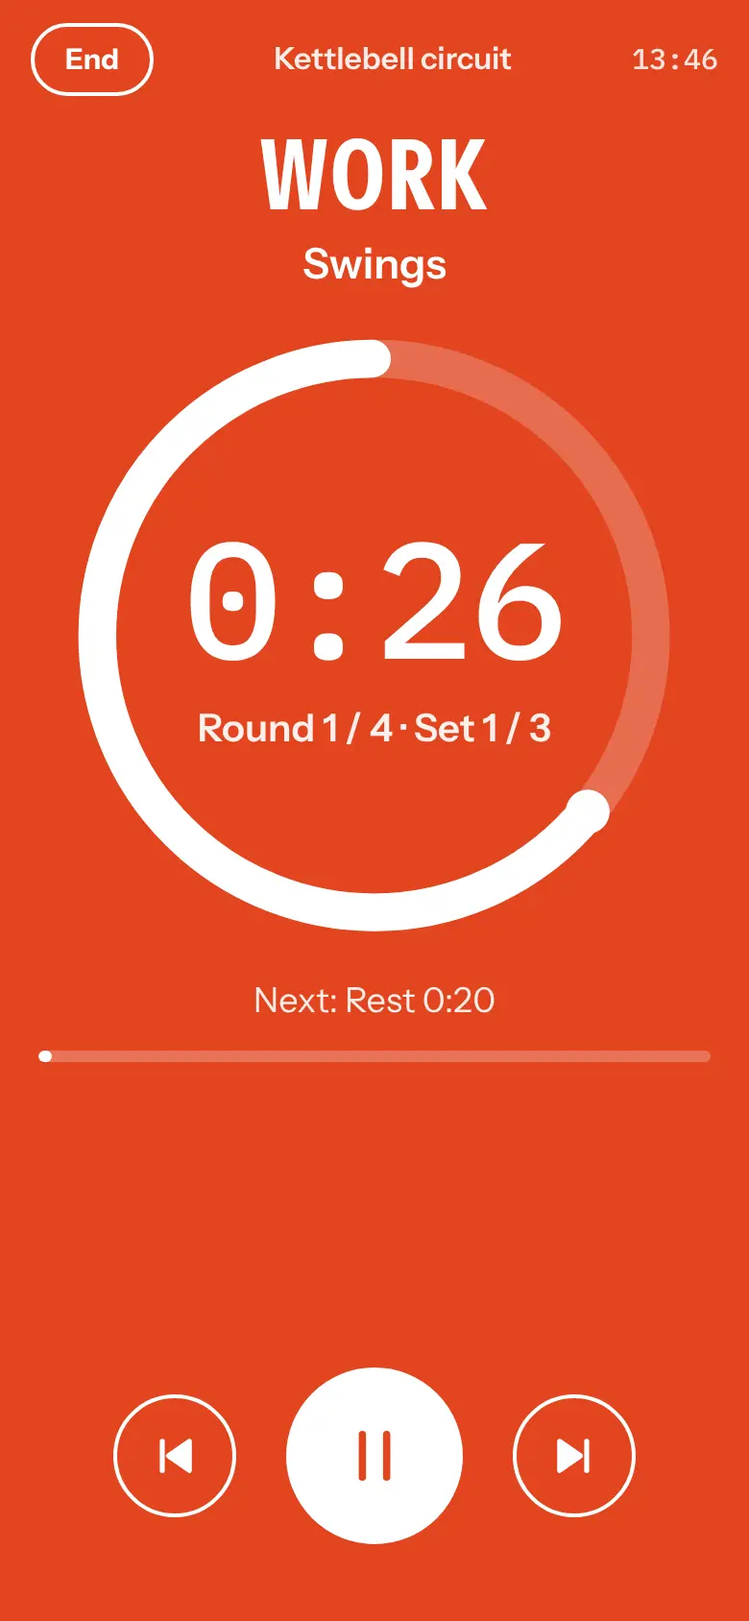
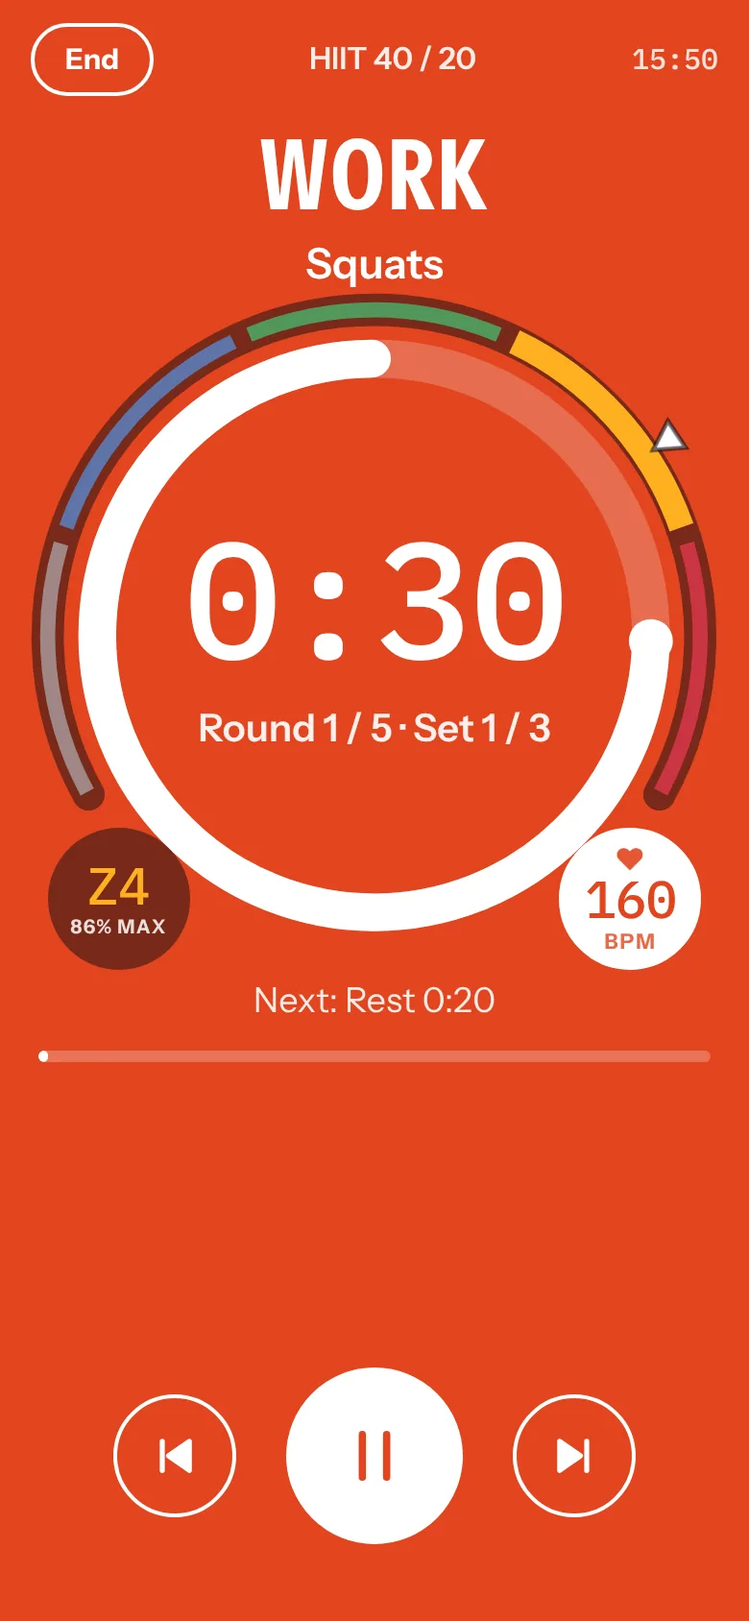
Rounds zones, new donation line, Still Point screenshot, manuals synced
- Homepage: the new donation line; the Rounds card announces heart-rate zones.
- Rounds page: zone screenshots (work with the zone ring, Done with time in
  each zone), "Heart rate and zones" feature text; manual synced to 1.4.0.
- Still Point: new home screenshot ("Connect strap").
- Unmarked: manual synced to 0.1.4.
- tools/md.mjs: simple tables, styled in the manual pages.

Claude-Session: https://claude.ai/code/session_012xu5y2k6Q8KBdMQGucsDEw

diff --git a/rounds/manual/index.html b/rounds/manual/index.html
@@ -4,12 +4,12 @@
 <meta charset="utf-8">
 <meta name="viewport" content="width=device-width,initial-scale=1,viewport-fit=cover">
 <title>Rounds user manual</title>
-<meta name="description" content="How to use Rounds: presets, building your own timers, the beeps, spoken cues, heart rate and backing up your timers.">
+<meta name="description" content="How to use Rounds: presets, building your own timers, the beeps, spoken cues, heart rate and zones, and backing up your timers.">
 <link rel="canonical" href="https://anonacondacodelab.com/rounds/manual/">
 <meta property="og:type" content="website">
 <meta property="og:site_name" content="Anonaconda Code Lab">
 <meta property="og:title" content="Rounds user manual">
-<meta property="og:description" content="How to use Rounds: presets, building your own timers, the beeps, spoken cues, heart rate and backing up your timers.">
+<meta property="og:description" content="How to use Rounds: presets, building your own timers, the beeps, spoken cues, heart rate and zones, and backing up your timers.">
 <meta property="og:url" content="https://anonacondacodelab.com/rounds/manual/">
 <meta property="og:image" content="https://anonacondacodelab.com/social/og-rounds.jpg">
 <meta property="og:image:width" content="1200">
@@ -72,6 +72,9 @@ details p{margin:8px 0 0;max-width:40em}
 .manual code{font-size:14px;background:var(--card);border:1px solid var(--rule);border-radius:5px;padding:0 4px;overflow-wrap:anywhere}
 .manual .callout{border:2px solid var(--head);border-radius:14px;padding:4px 18px;margin:18px 0;background:var(--card)}
 .manual hr{border:0;border-top:1px solid var(--rule);margin:28px 0}
+.manual table{border-collapse:collapse;margin:14px 0;font-size:16px;display:block;overflow-x:auto;max-width:100%}
+.manual th,.manual td{border-bottom:1px solid var(--rule);padding:6px 16px 6px 0;text-align:left;white-space:nowrap}
+.manual th{font-weight:600}
 footer{border-top:1px solid var(--rule);margin-top:48px;padding:26px 0 48px;font-size:15px;color:var(--muted)}
 footer nav{display:flex;flex-wrap:wrap;gap:8px 22px;margin-bottom:14px}
 footer nav a{color:var(--ink);font-weight:500;text-underline-offset:3px}
@@ -104,7 +107,7 @@ footer p{margin:6px 0;max-width:40em}
 <ul><li><b>Name</b>: shown at the top while the timer runs.</li><li><b>Work</b> and <b>Rest</b>: the length of each work and rest period. Tap the value to type a time, or use − and +.</li><li><b>Rounds</b>: how many times work and rest repeat. There is no rest after the last round.</li><li><b>Sets</b> and <b>Break between sets</b>: repeat the whole block of rounds, with a longer break in between. The break replaces the last rest of each set.</li><li><b>Warm-up</b> and <b>Cool-down</b>: an easy period before the first round and after the last.</li><li><b>Exercise names</b> (optional): one per line. Each work round shows the next name in order, and spoken cues read it out, which is handy for circuits.</li><li><b>Custom steps</b>: for patterns that aren't a simple work and rest, such as 10-20-30 or a pyramid, tap <i>Use custom steps</i>. Each round is then a list of steps, each with its own length and label. Work steps get the 3-2-1 beeps; rest steps are easy or recovery.</li></ul>
 <p>Tap <b>Save</b> to keep the timer under <i>Your timers</i>, or <b>Start</b> to run it straight away. <b>Delete</b> removes a timer you made.</p>
 <h2>While a timer runs</h2>
-<ul><li>The whole screen changes colour with the phase, so you can see from across the room whether it's work or rest.</li><li>The <b>ring</b> empties as the current period runs down, with the time left in the middle. Above it is the phase and the round (for example <i>Round 3 / 8 · Set 1 / 2</i>); below it, what comes next.</li><li><b>Skip warm-up</b> appears during a warm-up and jumps straight to the first round.</li><li><b>Pause</b> stops the timer and the beeps; tap again to carry on.</li><li><b>Back</b> (⏮) goes back to the start of the current period (or the previous one, if you're in the first two seconds); <b>Skip</b> (⏭) skips to the next period.</li><li><b>End</b> asks you to tap again within three seconds, so a stray tap can't stop your workout.</li><li>The screen stays on while a timer runs.</li></ul>
+<ul><li>The whole screen changes colour with the phase, so you can see from across the room whether it's work or rest.</li><li>The <b>ring</b> empties as the current period runs down, with the time left in the middle. Above it is the phase and the round (for example <i>Round 3 / 8 · Set 1 / 2</i>); below it, what comes next.</li><li><b>Skip warm-up</b> appears during a warm-up and jumps straight to the first round.</li><li><b>Pause</b> stops the timer and the beeps; tap again to carry on.</li><li><b>Back</b> (⏮) goes back to the start of the current period (or the previous one, if you're in the first two seconds); <b>Skip</b> (⏭) skips to the next period.</li><li><b>End</b> asks you to tap again within three seconds, so a stray tap can't stop your workout. Ending a timer early still shows the finish screen, with the work rounds you finished, the time so far and your heart rate and zones up to then.</li><li>The screen stays on while a timer runs.</li></ul>
 <p>When the timer finishes, you see how many work rounds you did and the total time. <b>Again</b> runs the same timer once more; <b>Home</b> goes back to the list.</p>
 <h2>Spoken cues and vibration</h2>
 <p>In <b>Settings</b>:</p>
@@ -113,12 +116,18 @@ footer p{margin:6px 0;max-width:40em}
 <p>Tap <b>♥</b> at the top of the home screen, or beside the dial during a timer, and choose your strap or watch in the list. Any device that shares standard Bluetooth heart rate works: Polar, Garmin HRM-Dual or HRM-Pro, Wahoo TICKR, Coospo and most others, including many watches in &quot;broadcast heart rate&quot; mode.</p>
 <p>Your heart rate is shown during the timer, and the finish screen shows your average and peak heart rate in the work rounds. Readings are only shown, never saved or sent. Tap ♥ twice to disconnect.</p>
 <p>In a browser this needs Chrome or Chromium on Android or a computer, or the free Bluefy browser on iPhone and iPad. If the browser can't use Bluetooth, the ♥ button simply doesn't appear.</p>
+<h3>Heart-rate zones</h3>
+<p>Turn on <b>Settings → Heart-rate zones</b> and enter your <b>max heart rate</b>. If you don't know it, enter your <b>age</b> instead and Rounds estimates it with the Tanaka formula (208 − 0.7 × age). Estimates can be 10 bpm or more out either way, so a max you have measured (for example, the highest reading at the end of a very hard effort) is better. Add your <b>resting heart rate</b> if you like: the zones are then based on your heart-rate reserve (max minus resting), which suits people whose resting heart rate is unusually low or high.</p>
+<table><thead><tr><th>Zone</th><th>Share of max (or of reserve)</th><th>Feels</th></tr></thead><tbody><tr><td>Z1</td><td>50–60%</td><td>Very light</td></tr><tr><td>Z2</td><td>60–70%</td><td>Light</td></tr><tr><td>Z3</td><td>70–80%</td><td>Moderate</td></tr><tr><td>Z4</td><td>80–90%</td><td>Hard</td></tr><tr><td>Z5</td><td>90–100%</td><td>Maximum</td></tr></tbody></table>
+<p>Until you do, a small card on the start screen offers <b>Set up zones</b> (or <b>Not now</b>, which hides it for good; the setting stays in Settings). Settings shows the heart-rate range of each zone for your numbers. You only set this up once: it is stored on this device with your timers, and <i>Save timers to file</i> includes it.</p>
+<p>While a strap is connected, a ring of the five zones appears around the timer, with a marker at your current heart rate and your zone (for example <b>Z4 · 86% MAX</b>, or <b>% HRR</b> with a resting heart rate) at the bottom left of the dial. If readings stop, the ring dims and the zone shows <b>–</b> until they come back. Without a strap, or with zones not set up, the timer looks as it always has. The finish screen shows how long you spent in each zone, also when you end a timer early.</p>
+<p>Zones are a guide for training, not medical advice.</p>
 <h2>Backing up your timers</h2>
 <p>In <b>Settings → Your timers</b>:</p>
 <ul><li><b>Save timers to file</b> saves your own timers, favourites and settings in one file. Keep it as a backup, or use it to move your timers to another phone or browser.</li><li><b>Import timers</b> adds the timers from such a file. Timers you already have are kept; a timer that is already there is replaced by the copy in the file, and favourites are combined.</li></ul>
 <p>Your timers are stored in the browser on this device. Clearing the browser's site data deletes them, so save a backup now and then if you have many.</p>
 <h2>Privacy</h2>
-<p>Rounds has no server, no account and no tracking. Your timers stay on your device, and heart rate is shown only, never saved or sent. Opening the web app is an ordinary visit to its website, like any page; after that, the only thing it ever asks that website for is a newer copy of itself, so updates arrive. The Android app has no internet permission at all.</p>
+<p>Rounds has no server, no account and no tracking. Your timers and heart-rate zone settings stay on your device, and heart rate is shown only, never saved or sent. Opening the web app is an ordinary visit to its website, like any page; after that, the only thing it ever asks that website for is a newer copy of itself, so updates arrive. The Android app has no internet permission at all.</p>
 <p><b>Translating the page.</b> If you use your browser's <i>Translate</i> button, the browser sends the page's text to its translation service (Google's, in Chrome). Rounds marks your timer names and heart rate so the translator leaves them out: only the app's own buttons and labels are translated.</p>
 <h2>The Android app</h2>
 <p>Rounds is also an Android app: the same app, with the timer, beeps and spoken cues keeping going while the screen is off, and <b>no internet permission</b> at all. It is not on Google Play; download it from <b>rounds.anonacondacodelab.com/android.html</b>, which also explains how to install it and how to check that it's the official build. When you start your first timer, it asks to show a notification: that notification is what keeps it running with the screen off.</p>

diff --git a/rounds/index.html b/rounds/index.html
@@ -4,12 +4,12 @@
 <meta charset="utf-8">
 <meta name="viewport" content="width=device-width,initial-scale=1,viewport-fit=cover">
 <title>Rounds: a free, loud interval timer for HIIT, Tabata and boxing</title>
-<meta name="description" content="A loud, clear interval timer with 16 presets (Tabata, EMOM, 4 × 4, boxing rounds and more) or your own timers. Free, no account, no ads, works offline.">
+<meta name="description" content="A loud, clear interval timer with 16 presets (Tabata, EMOM, 4 × 4, boxing rounds and more) or your own timers, and optional heart-rate zones. Free, no account, no ads, works offline.">
 <link rel="canonical" href="https://anonacondacodelab.com/rounds/">
 <meta property="og:type" content="website">
 <meta property="og:site_name" content="Anonaconda Code Lab">
 <meta property="og:title" content="Rounds: a free, loud interval timer for HIIT, Tabata and boxing">
-<meta property="og:description" content="A loud, clear interval timer with 16 presets (Tabata, EMOM, 4 × 4, boxing rounds and more) or your own timers. Free, no account, no ads, works offline.">
+<meta property="og:description" content="A loud, clear interval timer with 16 presets (Tabata, EMOM, 4 × 4, boxing rounds and more) or your own timers, and optional heart-rate zones. Free, no account, no ads, works offline.">
 <meta property="og:url" content="https://anonacondacodelab.com/rounds/">
 <meta property="og:image" content="https://anonacondacodelab.com/social/og-rounds.jpg">
 <meta property="og:image:width" content="1200">
@@ -20,7 +20,7 @@
 <link rel="icon" href="/favicon.ico" sizes="48x48">
 <link rel="icon" href="/favicon-192.png" type="image/png" sizes="192x192">
 <link rel="apple-touch-icon" href="/apple-touch-icon.png">
-<script type="application/ld+json">{"@context":"https://schema.org","@type":"WebApplication","name":"Rounds","url":"https://rounds.anonacondacodelab.com","description":"A loud, clear interval timer with 16 presets (Tabata, EMOM, 4 × 4, boxing rounds and more) or your own timers. Free, no account, no ads, works offline.","applicationCategory":"SportsApplication","operatingSystem":"Android app; any modern browser on Android, iPhone, iPad, Windows, macOS, ChromeOS, Linux","browserRequirements":"Any modern browser. Optional heart rate needs Web Bluetooth (Chrome or Chromium, or Bluefy on iPhone)","offers":{"@type":"Offer","price":"0","priceCurrency":"USD"},"isAccessibleForFree":true,"license":"https://www.gnu.org/licenses/gpl-3.0.html","image":"https://anonacondacodelab.com/social/og-rounds.jpg","author":{"@type":"Organization","name":"Anonaconda Code Lab","url":"https://anonacondacodelab.com/"}}</script>
+<script type="application/ld+json">{"@context":"https://schema.org","@type":"WebApplication","name":"Rounds","url":"https://rounds.anonacondacodelab.com","description":"A loud, clear interval timer with 16 presets (Tabata, EMOM, 4 × 4, boxing rounds and more) or your own timers, and optional heart-rate zones. Free, no account, no ads, works offline.","applicationCategory":"SportsApplication","operatingSystem":"Android app; any modern browser on Android, iPhone, iPad, Windows, macOS, ChromeOS, Linux","browserRequirements":"Any modern browser. Optional heart rate needs Web Bluetooth (Chrome or Chromium, or Bluefy on iPhone)","offers":{"@type":"Offer","price":"0","priceCurrency":"USD"},"isAccessibleForFree":true,"license":"https://www.gnu.org/licenses/gpl-3.0.html","image":"https://anonacondacodelab.com/social/og-rounds.jpg","author":{"@type":"Organization","name":"Anonaconda Code Lab","url":"https://anonacondacodelab.com/"}}</script>
 <style>
 @font-face{font-family:"Instrument Sans";font-style:normal;font-display:swap;font-weight:400 700;font-stretch:75% 100%;
   src:url(/fonts/InstrumentSans-latin-variable.woff2) format("woff2-variations")}
@@ -73,6 +73,9 @@ details p{margin:8px 0 0;max-width:40em}
 .manual code{font-size:14px;background:var(--card);border:1px solid var(--rule);border-radius:5px;padding:0 4px;overflow-wrap:anywhere}
 .manual .callout{border:2px solid var(--head);border-radius:14px;padding:4px 18px;margin:18px 0;background:var(--card)}
 .manual hr{border:0;border-top:1px solid var(--rule);margin:28px 0}
+.manual table{border-collapse:collapse;margin:14px 0;font-size:16px;display:block;overflow-x:auto;max-width:100%}
+.manual th,.manual td{border-bottom:1px solid var(--rule);padding:6px 16px 6px 0;text-align:left;white-space:nowrap}
+.manual th{font-weight:600}
 footer{border-top:1px solid var(--rule);margin-top:48px;padding:26px 0 48px;font-size:15px;color:var(--muted)}
 footer nav{display:flex;flex-wrap:wrap;gap:8px 22px;margin-bottom:14px}
 footer nav a{color:var(--ink);font-weight:500;text-underline-offset:3px}
@@ -95,10 +98,10 @@ footer p{margin:6px 0;max-width:40em}
     <div class="shots" role="list" aria-label="Screenshots">
       <figure role="listitem"><img src="/screens/rounds/1-home.webp" alt="Favourites, your own timers and 16 presets, sorted by goal or hardest first" width="780" height="1688" loading="lazy"><figcaption>Favourites, your own timers and 16 presets, sorted by goal or hardest first</figcaption></figure>
       <figure role="listitem"><img src="/screens/rounds/2-about.webp" alt="Every preset explains what it is, how to do it, why it works and where it comes from" width="780" height="1688" loading="lazy"><figcaption>Every preset explains what it is, how to do it, why it works and where it comes from</figcaption></figure>
-      <figure role="listitem"><img src="/screens/rounds/3-work.webp" alt="Work: the whole screen turns orange, with the exercise name, round and set" width="780" height="1688" loading="lazy"><figcaption>Work: the whole screen turns orange, with the exercise name, round and set</figcaption></figure>
+      <figure role="listitem"><img src="/screens/rounds/3-work.webp" alt="Work: the whole screen turns orange; with a strap, the ring around it shows your heart-rate zone" width="780" height="1688" loading="lazy"><figcaption>Work: the whole screen turns orange; with a strap, the ring around it shows your heart-rate zone</figcaption></figure>
       <figure role="listitem"><img src="/screens/rounds/4-rest.webp" alt="Rest: green, with what comes next" width="780" height="1688" loading="lazy"><figcaption>Rest: green, with what comes next</figcaption></figure>
       <figure role="listitem"><img src="/screens/rounds/5-editor.webp" alt="Build your own: work, rest, rounds, sets, warm-up, cool-down and exercise names" width="780" height="1688" loading="lazy"><figcaption>Build your own: work, rest, rounds, sets, warm-up, cool-down and exercise names</figcaption></figure>
-      <figure role="listitem"><img src="/screens/rounds/6-finish.webp" alt="Done: work rounds and total time, with your heart rate if a strap was connected" width="780" height="1688" loading="lazy"><figcaption>Done: work rounds and total time, with your heart rate if a strap was connected</figcaption></figure>
+      <figure role="listitem"><img src="/screens/rounds/6-finish.webp" alt="Done: work rounds and time, your heart rate and the time you spent in each zone" width="780" height="1688" loading="lazy"><figcaption>Done: work rounds and time, your heart rate and the time you spent in each zone</figcaption></figure>
     </div>
     <h2>What it does</h2>
     <div class="features">
@@ -109,7 +112,7 @@ footer p{margin:6px 0;max-width:40em}
       <div><h3>Build your own</h3><p>Work, rest, rounds, sets with a longer break between them, warm-up and cool-down. Custom steps handle patterns like 10-20-30 or a pyramid, and exercise names are shown in each work round.</p></div>
       <div><h3>Readable from across the room</h3><p>Big numbers, a ring that empties as the time runs down, and a full-screen colour for each phase: work, rest, set break, warm-up and cool-down.</p></div>
       <div><h3>Spoken cues and vibration</h3><p>Optional voice cues (“Work”, “Rest”, “Round 3 of 8” and exercise names), a buzz at each change, and a halfway beep in long work rounds.</p></div>
-      <div><h3>Heart rate (optional)</h3><p>Connect any standard Bluetooth heart-rate strap or watch: Polar, Garmin, Wahoo, Coospo and most others. See your heart rate live, then your average and peak in the work rounds. Shown only, never saved or sent.</p></div>
+      <div><h3>Heart rate and zones (optional)</h3><p>Connect any standard Bluetooth heart-rate strap or watch: Polar, Garmin, Wahoo, Coospo and most others. See your heart rate live and, with your max heart rate set (or estimated from your age), your training zone in a ring around the timer. Afterwards: your average, peak and time in each zone. Shown only, never saved or sent.</p></div>
       <div><h3>Favourites and backup</h3><p>Star the timers you use most to keep them at the top. Save all your timers to a file and import them on another phone or browser.</p></div>
       <div><h3>Private and offline</h3><p>No account, no server, no analytics. Your timers stay on your device, and it works without a connection once added to your home screen.</p></div>
     </div>

diff --git a/unmarked/manual/index.html b/unmarked/manual/index.html
@@ -72,6 +72,9 @@ details p{margin:8px 0 0;max-width:40em}
 .manual code{font-size:14px;background:var(--card);border:1px solid var(--rule);border-radius:5px;padding:0 4px;overflow-wrap:anywhere}
 .manual .callout{border:2px solid var(--head);border-radius:14px;padding:4px 18px;margin:18px 0;background:var(--card)}
 .manual hr{border:0;border-top:1px solid var(--rule);margin:28px 0}
+.manual table{border-collapse:collapse;margin:14px 0;font-size:16px;display:block;overflow-x:auto;max-width:100%}
+.manual th,.manual td{border-bottom:1px solid var(--rule);padding:6px 16px 6px 0;text-align:left;white-space:nowrap}
+.manual th{font-weight:600}
 footer{border-top:1px solid var(--rule);margin-top:48px;padding:26px 0 48px;font-size:15px;color:var(--muted)}
 footer nav{display:flex;flex-wrap:wrap;gap:8px 22px;margin-bottom:14px}
 footer nav a{color:var(--ink);font-weight:500;text-underline-offset:3px}
@@ -101,19 +104,19 @@ footer p{margin:6px 0;max-width:40em}
 <p>Your choices are remembered on this device.</p>
 <h2>Photos (JPEG, PNG, WebP)</h2>
 <p>Removed:</p>
-<ul><li><b>Location</b> (GPS position, altitude, the direction the camera faced) and place names</li><li><b>Names</b>: author, camera owner, creator, contact details</li><li><b>Device details</b>: phone or camera maker and model, serial numbers, lens, software and editing apps</li><li><b>Dates and time zone</b></li><li><b>Embedded thumbnails</b>: a small copy of the original picture, which can still show parts you cropped out</li><li><b>Motion photos</b>: the short video clip some phones attach to a photo</li><li><b>Edit history</b>, document IDs and other data added by editing apps</li><li><b>Comments, titles, descriptions and keywords</b></li><li>Camera settings (exposure, ISO and similar) and other technical data</li></ul>
+<ul><li><b>Location</b> (GPS position, altitude, the direction the camera faced) and place names</li><li><b>Names</b>: author, camera owner, creator, contact details</li><li><b>Device details</b>: phone or camera maker and model, serial numbers, lens, software and editing apps</li><li><b>Dates and time zone</b></li><li><b>Embedded thumbnails</b>: a small copy of the original picture, which can still show parts you cropped out</li><li><b>Motion photos</b>: the short video clip some phones attach to a photo</li><li><b>Edit history</b>, document IDs and other data added by editing apps</li><li><b>Comments, titles, descriptions and keywords</b></li><li>Camera settings (exposure, ISO and similar) and other technical data</li><li><b>Standard sRGB colour profiles</b>: apps and browsers assume sRGB when a picture has no profile, so the colours stay exactly the same</li></ul>
 <p>Kept, because they are harmless and needed to show the picture correctly:</p>
-<ul><li><b>Rotation</b>: so the photo appears the right way up</li><li><b>Colour profile</b>: so colours look right</li></ul>
+<ul><li><b>Rotation</b>: so the photo appears the right way up</li><li><b>Other colour profiles</b> (for example Display P3 from newer phones): so colours look right. The details inside that can give something away are blanked: when the profile was made (some apps stamp the moment the photo was saved), the app, maker and model codes, and any copyright or device text. These play no part in the colours.</li></ul>
 <p>Cleaning is <b>lossless</b>. Unmarked cuts the hidden data out of the file without touching the picture itself, so there is no recompression and no loss of quality.</p>
 <h2>PDF documents</h2>
 <p>Removed:</p>
-<ul><li><b>Document information</b>: author, title, subject, keywords, the app that made it, creation and modification dates</li><li><b>XMP metadata</b>, document IDs and edit history</li><li><b>Earlier saved versions</b>: many apps add edits to the end of a PDF and leave the old version inside the file. Unmarked writes a fresh copy containing only the current version.</li><li><b>Camera data inside photos</b> placed in the document</li><li><b>Page thumbnails</b> and private editing data left by apps such as Word or Illustrator</li></ul>
+<ul><li><b>Document information</b>: author, title, subject, keywords, the app that made it, creation and modification dates</li><li><b>XMP metadata</b>, document IDs and edit history</li><li><b>Earlier saved versions</b>: many apps add edits to the end of a PDF and leave the old version inside the file. Unmarked writes a fresh copy containing only the current version.</li><li><b>Camera data inside photos</b> placed in the document</li><li><b>Page thumbnails</b> and private editing data left by apps such as Word or Illustrator</li><li><b>Digital signatures</b>: the signer's name, email, place, reason, signing time and certificate. Any change to a signed PDF makes its signature invalid anyway, so the signature is removed; the empty signature box stays.</li><li><b>Article threads' own details</b> (author and title) and <b>web capture data</b> (the addresses of the web pages a PDF was made from)</li></ul>
 <p>You choose, for each PDF that has them (all are ticked to start with):</p>
-<ul><li><b>Attached files</b>: files stored inside the PDF. They can carry their own hidden data.</li><li><b>Scripts</b>: code that runs when the PDF is opened. Rarely needed.</li><li><b>Comments and markup</b>: notes, highlights and drawings, and the names of the people who made them.</li></ul>
+<ul><li><b>Attached files</b>: files stored inside the PDF. They can carry their own hidden data.</li><li><b>Scripts</b>: code that runs when the PDF is opened (including scripts in XFA forms), and buttons that send the form to a website or load data from another file. Rarely needed.</li><li><b>Comments and markup</b>: notes, highlights and drawings, and the names of the people who made them.</li></ul>
 <p>Kept: the text, pictures and layout, links, form fields and their answers, and layers.</p>
 <h2>What Unmarked can't remove</h2>
 <div class="callout"><p>Unmarked removes hidden data. It can't change what anyone can <b>see</b> in the file.</p></div>
-<ul><li><b>The picture or page itself</b>: faces, street signs, house numbers, car number plates, reflections, screens, and text on a page. Crop or cover them before cleaning.</li><li><b>Text that is in the document</b>, including tracked changes that were already accepted.</li><li><b>Your device's own records</b>: the original file, your gallery, and cloud backups keep their data.</li><li><b>Hidden layers in PDFs</b> are kept. If a PDF has layers, Unmarked says so; check them in a PDF reader.</li></ul>
+<ul><li><b>The picture or page itself</b>: faces, street signs, house numbers, car number plates, reflections, screens, and text on a page. Crop or cover them before cleaning.</li><li><b>Text that is in the document</b>, including tracked changes that were already accepted.</li><li><b>Your device's own records</b>: the original file, your gallery, and cloud backups keep their data.</li><li><b>Hidden layers in PDFs</b> are kept. If a PDF has layers, Unmarked says so; check them in a PDF reader.</li><li><b>Forms built entirely with XFA</b> (some government and tax forms) keep their scripts, because without them the pages would be blank. Unmarked lists them. Only Adobe Reader runs them; most other PDF readers ignore them.</li></ul>
 <h2>Files Unmarked can't clean (yet)</h2>
 <ul><li><b>HEIC photos</b> (the default on iPhones and some Android phones). Most phones can save or share as JPEG instead.</li><li><b>Password-protected or encrypted PDFs.</b></li><li>GIF, TIFF, camera RAW files and videos.</li></ul>
 <h2>Privacy</h2>
@@ -126,7 +129,7 @@ footer p{margin:6px 0;max-width:40em}
 <div class="callout"><p>Unmarked is free software, provided <b>as it is, without any warranty</b>. It removes the hidden data it knows about, but no tool can promise to find everything, and new phones and apps keep adding new kinds of data. Check the clean copy before you share anything sensitive. You are responsible for what you share; Anonaconda Code Lab accepts no liability for any loss or harm from using this app. The full terms are in the GNU General Public License v3.</p></div>
 <h2>Support and feedback</h2>
 <p>Questions, problems or ideas: email <b>hello@anonacondacodelab.com</b>. Describe what happened and, if you can, add a screenshot. Please don't send the files you were cleaning; a description is usually enough.</p>
-<p>Unmarked is free and open-source software from Anonaconda Code Lab, released under the GNU General Public License v3. If it is useful to you, you can support its development at <b><a href="https://ko-fi.com/anonacondacodelab">ko-fi.com/anonacondacodelab</a></b>.</p>
+<p>Unmarked is free and open-source software from Anonaconda Code Lab, released under the GNU General Public License v3. No ads, no tracking. If you find this app useful, please consider making a small donation to help fund development: <b><a href="https://ko-fi.com/anonacondacodelab">ko-fi.com/anonacondacodelab</a></b>. Thank you!</p>
   </article></main>
   <footer>
     <nav aria-label="Studio links">

diff --git a/index.html b/index.html
@@ -124,7 +124,7 @@ footer .thanks a{font-weight:500;text-underline-offset:3px}
         <h2><img src="icons/rounds.svg" alt=""><a href="/rounds/" class="h2link">Rounds</a></h2>
         <p>A loud, clear interval timer. Pick from 16 presets, from Tabata and EMOM to boxing rounds, sorted by goal or hardest first, or build your own. Three beeps count you into and out of every work round, with full-screen colour so you can read it from across the room.</p>
         <p class="needs">Works in any modern browser, offline once added to your home screen. Optional live heart rate from any standard Bluetooth strap or watch, with Chrome or Chromium on Android or Bluefy on iPhone; readings are shown only, never saved or sent.</p>
-        <p class="soon new"><span>New</span>The <a href="https://rounds.anonacondacodelab.com/android.html">Android app</a>: beeps and voice cues keep going with the screen off, and it has no internet access at all.</p>
+        <p class="soon new"><span>New</span>Heart-rate zones: set your max heart rate (or your age), connect a strap, and a ring around the timer shows your zone as you work, with your time in each zone at the end.</p>
         <div class="links">
           <a class="open" href="https://rounds.anonacondacodelab.com">Open Rounds</a>
           <a href="https://rounds.anonacondacodelab.com/android.html">Android app</a>
@@ -175,7 +175,7 @@ footer .thanks a{font-weight:500;text-underline-offset:3px}
       <a href="https://mastodon.social/@anonacondacodelab" rel="me">Mastodon</a>
       <!-- add when ready: <a href="https://x.com/HANDLE">X</a> -->
     </nav>
-    <p class="thanks">If you find these free apps useful, please consider <a href="https://ko-fi.com/anonacondacodelab">a small donation</a>. They're made by one person, with no ads or tracking. Thank you!</p>
+    <p class="thanks">No ads, no tracking. If you find these apps useful, please consider <a href="https://ko-fi.com/anonacondacodelab">making a small donation</a> to help fund development. Thank you!</p>
     <p>No cookies, no analytics, no tracking, on this page or in the apps.</p>
     <p>© 2026 Anonaconda Code Lab. Apps are free software under the GNU GPL v3. Polar and H10 are trademarks of Polar Electro Oy; Garmin, HRM-Dual and HRM-Pro of Garmin Ltd.; Wahoo and TICKR of Wahoo Fitness; Coospo, Magene and Decathlon of their respective owners. These apps are independent and not affiliated with any of them.</p>
   </footer>

diff --git a/lead-one/index.html b/lead-one/index.html
@@ -73,6 +73,9 @@ details p{margin:8px 0 0;max-width:40em}
 .manual code{font-size:14px;background:var(--card);border:1px solid var(--rule);border-radius:5px;padding:0 4px;overflow-wrap:anywhere}
 .manual .callout{border:2px solid var(--head);border-radius:14px;padding:4px 18px;margin:18px 0;background:var(--card)}
 .manual hr{border:0;border-top:1px solid var(--rule);margin:28px 0}
+.manual table{border-collapse:collapse;margin:14px 0;font-size:16px;display:block;overflow-x:auto;max-width:100%}
+.manual th,.manual td{border-bottom:1px solid var(--rule);padding:6px 16px 6px 0;text-align:left;white-space:nowrap}
+.manual th{font-weight:600}
 footer{border-top:1px solid var(--rule);margin-top:48px;padding:26px 0 48px;font-size:15px;color:var(--muted)}
 footer nav{display:flex;flex-wrap:wrap;gap:8px 22px;margin-bottom:14px}
 footer nav a{color:var(--ink);font-weight:500;text-underline-offset:3px}

diff --git a/lead-one/manual/index.html b/lead-one/manual/index.html
@@ -72,6 +72,9 @@ details p{margin:8px 0 0;max-width:40em}
 .manual code{font-size:14px;background:var(--card);border:1px solid var(--rule);border-radius:5px;padding:0 4px;overflow-wrap:anywhere}
 .manual .callout{border:2px solid var(--head);border-radius:14px;padding:4px 18px;margin:18px 0;background:var(--card)}
 .manual hr{border:0;border-top:1px solid var(--rule);margin:28px 0}
+.manual table{border-collapse:collapse;margin:14px 0;font-size:16px;display:block;overflow-x:auto;max-width:100%}
+.manual th,.manual td{border-bottom:1px solid var(--rule);padding:6px 16px 6px 0;text-align:left;white-space:nowrap}
+.manual th{font-weight:600}
 footer{border-top:1px solid var(--rule);margin-top:48px;padding:26px 0 48px;font-size:15px;color:var(--muted)}
 footer nav{display:flex;flex-wrap:wrap;gap:8px 22px;margin-bottom:14px}
 footer nav a{color:var(--ink);font-weight:500;text-underline-offset:3px}

diff --git a/still-point/index.html b/still-point/index.html
@@ -73,6 +73,9 @@ details p{margin:8px 0 0;max-width:40em}
 .manual code{font-size:14px;background:var(--card);border:1px solid var(--rule);border-radius:5px;padding:0 4px;overflow-wrap:anywhere}
 .manual .callout{border:2px solid var(--head);border-radius:14px;padding:4px 18px;margin:18px 0;background:var(--card)}
 .manual hr{border:0;border-top:1px solid var(--rule);margin:28px 0}
+.manual table{border-collapse:collapse;margin:14px 0;font-size:16px;display:block;overflow-x:auto;max-width:100%}
+.manual th,.manual td{border-bottom:1px solid var(--rule);padding:6px 16px 6px 0;text-align:left;white-space:nowrap}
+.manual th{font-weight:600}
 footer{border-top:1px solid var(--rule);margin-top:48px;padding:26px 0 48px;font-size:15px;color:var(--muted)}
 footer nav{display:flex;flex-wrap:wrap;gap:8px 22px;margin-bottom:14px}
 footer nav a{color:var(--ink);font-weight:500;text-underline-offset:3px}

diff --git a/still-point/manual/index.html b/still-point/manual/index.html
@@ -72,6 +72,9 @@ details p{margin:8px 0 0;max-width:40em}
 .manual code{font-size:14px;background:var(--card);border:1px solid var(--rule);border-radius:5px;padding:0 4px;overflow-wrap:anywhere}
 .manual .callout{border:2px solid var(--head);border-radius:14px;padding:4px 18px;margin:18px 0;background:var(--card)}
 .manual hr{border:0;border-top:1px solid var(--rule);margin:28px 0}
+.manual table{border-collapse:collapse;margin:14px 0;font-size:16px;display:block;overflow-x:auto;max-width:100%}
+.manual th,.manual td{border-bottom:1px solid var(--rule);padding:6px 16px 6px 0;text-align:left;white-space:nowrap}
+.manual th{font-weight:600}
 footer{border-top:1px solid var(--rule);margin-top:48px;padding:26px 0 48px;font-size:15px;color:var(--muted)}
 footer nav{display:flex;flex-wrap:wrap;gap:8px 22px;margin-bottom:14px}
 footer nav a{color:var(--ink);font-weight:500;text-underline-offset:3px}

diff --git a/unmarked/index.html b/unmarked/index.html
@@ -73,6 +73,9 @@ details p{margin:8px 0 0;max-width:40em}
 .manual code{font-size:14px;background:var(--card);border:1px solid var(--rule);border-radius:5px;padding:0 4px;overflow-wrap:anywhere}
 .manual .callout{border:2px solid var(--head);border-radius:14px;padding:4px 18px;margin:18px 0;background:var(--card)}
 .manual hr{border:0;border-top:1px solid var(--rule);margin:28px 0}
+.manual table{border-collapse:collapse;margin:14px 0;font-size:16px;display:block;overflow-x:auto;max-width:100%}
+.manual th,.manual td{border-bottom:1px solid var(--rule);padding:6px 16px 6px 0;text-align:left;white-space:nowrap}
+.manual th{font-weight:600}
 footer{border-top:1px solid var(--rule);margin-top:48px;padding:26px 0 48px;font-size:15px;color:var(--muted)}
 footer nav{display:flex;flex-wrap:wrap;gap:8px 22px;margin-bottom:14px}
 footer nav a{color:var(--ink);font-weight:500;text-underline-offset:3px}
